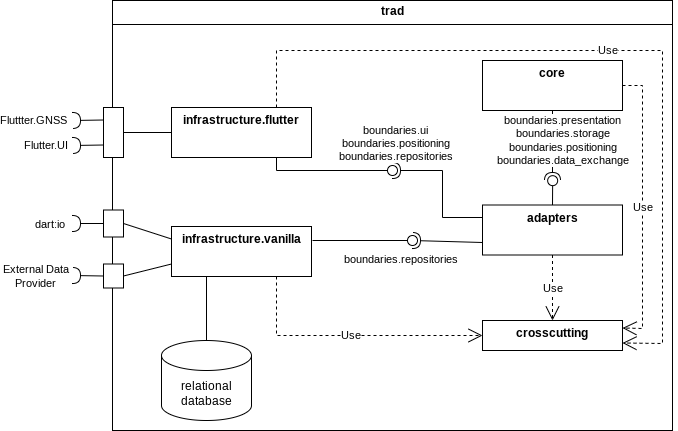
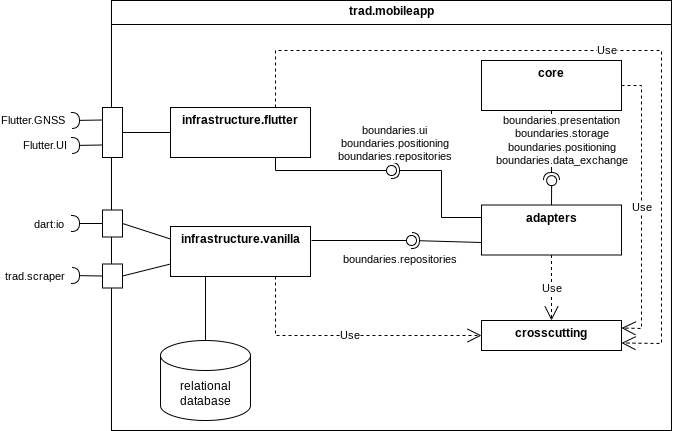
docs: Some minor documentation improvements, in preparation for adding scraper docs

diff --git a/doc/architecture.md b/doc/architecture.md
@@ -1,7 +1,9 @@
 Architecture Documentation
 ==========================
 
-This documents the architectural views and decisions of the trad application. Its structure is based on the [Arc42](https://arc42.org/overview) documentation template, please follow this template if appropriate when modifying.
+This is the documention of the architectural views and decisions of the trad application. Its
+structure is based on the [Arc42](https://arc42.org/overview) documentation template, please follow
+this template if appropriate when modifying.
 
 # 1. Introduction and Goals
 
@@ -110,7 +112,9 @@ This section describes our solution strategies for the quality goals. Please ref
 [section 10](10-quality-requirements) for their descriptions.
 
 The mobile app will be written in [Dart 3](https://dart.dev/), mainly because we want to learn
-this language. We are using [Git](https://github.com/Headbucket/trad) for version control.
+this language. We are using [Git](https://github.com/Headbucket/trad) for version control, all
+software parts are stored in a single [Github repository](https://github.com/Headbucket/trad)
+(monorepo).
 
 ## 4.1 Flexibility, Maintainability, Testability (QREQ-1, QREQ-2, QREQ-3, QREQ-6)
 
@@ -142,9 +146,15 @@ Resources:
 
 ## 4.2 Reliability, Usability (QREQ-3)
 
-To ensure no critical use cases depend on any network connection, all necessary data (e.g.
-route data, journal) is replicated to/stored within the local device. The business core works on
-this local copy only.
+To ensure no critical use cases of the mobile app depend on any network connection, all necessary
+data (e.g. route data, journal) is replicated to/stored within the local device. The business core
+works on this local copy only.
+
+By separating the actual route data source access into a separate scraper application (see also
+[ADR-3](#93-adr-3-decouple-the-mobile-app-from-external-route-data-services), the mobile app
+becomes independent from any external problems or changes, increasing both reliability and
+usability.
+
 
 ## 4.3 Reliability, Durability (QREQ-4)
 
@@ -179,8 +189,8 @@ The usage of the [Clean Architecture](#41-flexibility-maintainability-testabilit
 pattern and consistent decoupling and encapsulating details also supports us in adapting to
 external changes or different platforms. Additionally, we use the [Flutter 3](https://flutter.dev/)
 framework for GUI and hardware abstraction because it allows to easily transfer the app to
-different platforms. However, Flutter itself shall be kept an implementation detail and
-therefore only be used within the `infrastructure` ring.
+different platforms. However, Flutter itself shall be kept an implementation detail and therefore
+only be used within the `infrastructure` ring.
 
 ## 4.6 Security (QREQ-11)
 
@@ -219,10 +229,11 @@ The general rules for source code dependencies are:
 
 As described in [section 4.1](#41-flexibility-maintainability-testability-qreq-1-qreq-2-qreq-3-qreq-6),
 the mobile app implementation utilizes the *Clean Architecture* pattern with only three rings
-(software parts). Additionally, the `infrastructure` ring is split into a *flutter* and a *vanilla* part,
-containing all flutter and all non-flutter dependent `infrastructure` components, respectively - see also
-[section 9.1 TODO](#). A separate part touching all rings contains some of the crosscutting concepts
-described in [section 8](#8-crosscutting-concepts).
+(software parts). Additionally, the `infrastructure` ring is split into a *flutter* and a *vanilla*
+part, containing all flutter and all non-flutter dependent `infrastructure` components,
+respectively - see also [ADR-1](#91-adr-1-how-to-integrate-flutter-into-the-architecture).  A
+separate part touching all rings contains some of the crosscutting concepts described in
+[section 8](#8-crosscutting-concepts).
 
 ### 5.2.2 System parts
 
@@ -320,7 +331,7 @@ core.boundaries.data_exchange | TODO
 core.boundaries.storage | [core.boundaries.storage](../mobileapp/core/lib/boundaries/storage)
 core.boundaries.positioning | TODO
 adapters.boundaries.ui | [adapters.boundaries.ui](../mobileapp/adapters/lib/boundaries/ui.dart)
-adapters.boundaries.repositories | [adapters.boundaries.repositories](../mobileapp/core/lib/boundaries/repositories)
+adapters.boundaries.repositories | [adapters.boundaries.repositories](../mobileapp/adapters/lib/boundaries/repositories)
 adapters.boundaries.positioning | TODO
 
 
